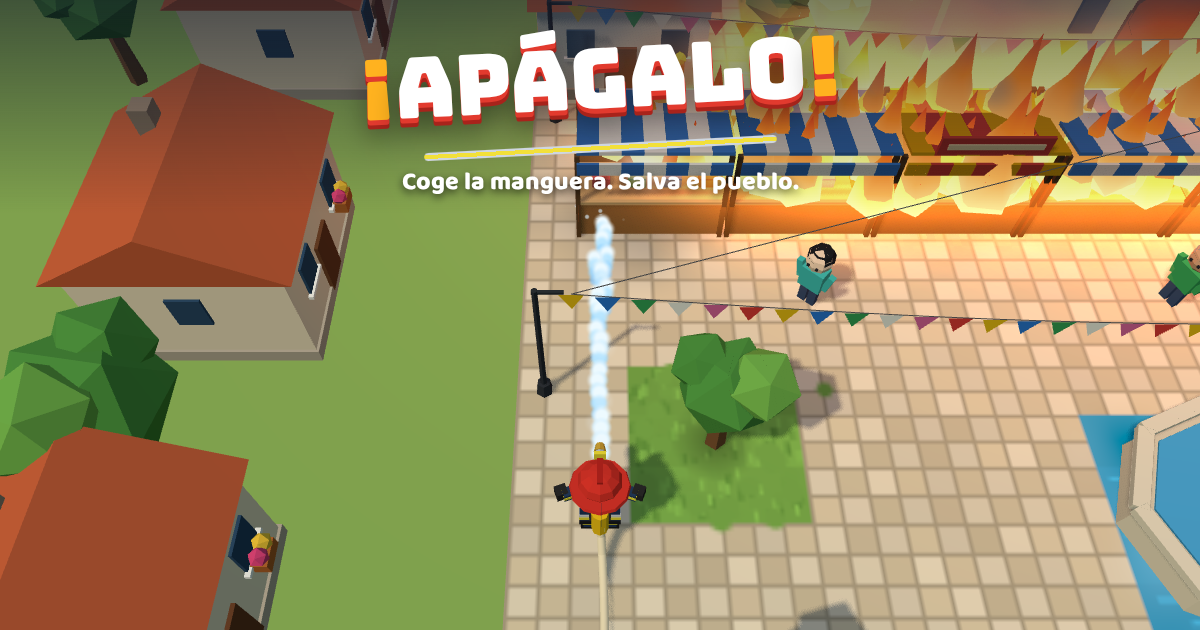
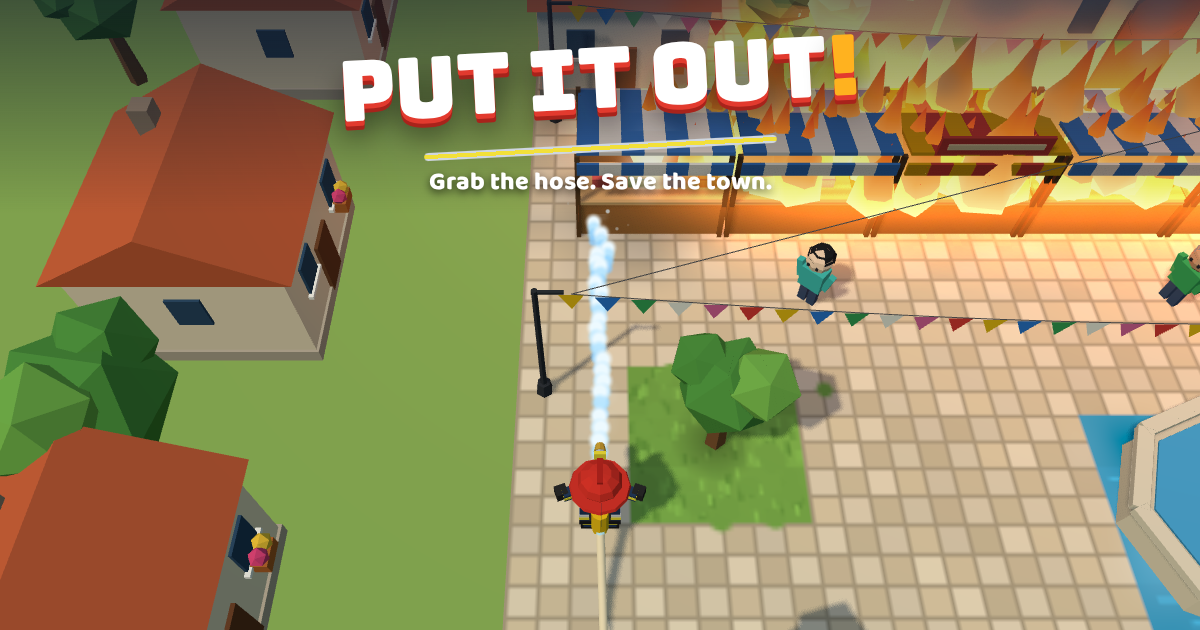
Imágenes en inglés: PUT IT OUT! en la tarjeta para compartir, portadas de CrazyGames y ficha de Play
tools/assets.py y tools/store_shots.py aceptan GAME_LANG y PORT. La tarjeta
de la web y las portadas de CrazyGames pasan a inglés; las capturas y el
gráfico destacado en inglés van en assets/play-en/ (las de español siguen
en assets/play/). El título de las portadas evita la zona de etiquetas.

Claude-Session: https://claude.ai/code/session_01QmgToeeGN4mTan4UFKf8XV

diff --git a/tools/assets.py b/tools/assets.py
@@ -1,14 +1,18 @@
 # Renders store/share assets from the real game: app icons, OG image, CrazyGames covers.
-# Usage: python3 tools/assets.py
+# Usage: python3 tools/assets.py [all|icons|og|covers]
+# The OG image and the CrazyGames covers are English ("PUT IT OUT!"): the web and the portal target tier-1 players.
+# GAME_LANG=es renders the Spanish title instead; PORT changes the local server port (default 8765).
 import asyncio, os
 from playwright.async_api import async_playwright
 
 ROOT = os.path.dirname(os.path.dirname(os.path.abspath(__file__)))
-URL = 'http://127.0.0.1:8765/web/index.html'  # served: file:// blocks the self-hosted fonts
+LANG = os.environ.get('GAME_LANG', 'en')
+LOCALE = 'es-ES' if LANG == 'es' else 'en-US'
+URL = f"http://127.0.0.1:{os.environ.get('PORT', '8765')}/web/index.html"  # served: file:// blocks the self-hosted fonts
 OUT = f'{ROOT}/assets/'
 ARGS = ['--use-gl=angle', '--use-angle=swiftshader', '--enable-unsafe-swiftshader']
 
-SAVE = "localStorage.setItem('apagalo.v1', JSON.stringify({v:1,stars:{plaza:3,granja:3,gasolinera:3,poligono:3,castanar:3,sanjuan:3},best:{},daily:{},streak:{count:0,last:''},settings:{sfx:false,music:false,vibration:false,gfx:'high',autoTier:'high',lang:'es',stats:false},tutorialDone:true,firstOpen:false,seenTips:[]}))"
+SAVE = "localStorage.setItem('apagalo.v1', JSON.stringify({v:1,stars:{plaza:3,granja:3,gasolinera:3,poligono:3,castanar:3,sanjuan:3},best:{},daily:{},streak:{count:0,last:''},settings:{sfx:false,music:false,vibration:false,gfx:'high',autoTier:'high',lang:'%s',stats:false},tutorialDone:true,firstOpen:false,seenTips:[]}))" % LANG
 
 ICON_SVG = '''<svg xmlns="http://www.w3.org/2000/svg" viewBox="0 0 512 512">
 <defs><linearGradient id="g" x1="0" y1="0" x2="0" y2="1"><stop offset="0" stop-color="#ef4a3a"/><stop offset="1" stop-color="#b8231b"/></linearGradient></defs>
@@ -22,9 +26,11 @@ ICON_SVG = '''<svg xmlns="http://www.w3.org/2000/svg" viewBox="0 0 512 512">
 HIDE_UI = "document.head.insertAdjacentHTML('beforeend','<style>#hud,#nozzles,#icons,#floaters,#toast,.tut,.stick,#screens,.banner{display:none!important}</style>')"
 
 def title_html(size, tag=False, top='5%', shift=0):
-    tagline = '<p style="margin:14px 0 0;font-family:Baloo 2,sans-serif;font-weight:800;font-size:%dpx;color:#fff;text-shadow:0 3px 8px rgba(0,0,0,.7)">Coge la manguera. Salva el pueblo.</p>' % int(size * 0.3) if tag else ''
+    line = 'Coge la manguera. Salva el pueblo.' if LANG == 'es' else 'Grab the hose. Save the town.'
+    tagline = '<p style="margin:14px 0 0;font-family:Baloo 2,sans-serif;font-weight:800;font-size:%dpx;color:#fff;text-shadow:0 3px 8px rgba(0,0,0,.7)">%s</p>' % (int(size * 0.3), line) if tag else ''
+    name = '<span style="color:#ffb21f">¡</span>APÁGALO<span style="color:#ffb21f">!</span>' if LANG == 'es' else 'PUT IT OUT<span style="color:#ffb21f">!</span>'
     return f'''<div id="poster" style="position:fixed;inset:0;z-index:60;pointer-events:none;display:flex;flex-direction:column;align-items:center;padding-top:{top};background:linear-gradient(180deg,rgba(13,21,40,.55) 0%,rgba(13,21,40,0) 34%)">
-<h1 style="font-family:Bungee,Impact,sans-serif;font-weight:400;font-size:{size}px;line-height:1;margin:0;color:#fff;letter-spacing:-.01em;transform:translateX({shift}px) rotate(-3deg);text-shadow:0 {size*0.06:.0f}px 0 #e23a2e,0 {size*0.11:.0f}px 0 #a8231b,0 {size*0.2:.0f}px {size*0.35:.0f}px rgba(0,0,0,.45)"><span style="color:#ffb21f">¡</span>APÁGALO<span style="color:#ffb21f">!</span></h1>
+<h1 style="font-family:Bungee,Impact,sans-serif;font-weight:400;font-size:{size}px;line-height:1;margin:0;color:#fff;letter-spacing:-.01em;transform:translateX({shift}px) rotate(-3deg);text-shadow:0 {size*0.06:.0f}px 0 #e23a2e,0 {size*0.11:.0f}px 0 #a8231b,0 {size*0.2:.0f}px {size*0.35:.0f}px rgba(0,0,0,.45)">{name}</h1>
 <div style="width:{size*4.2:.0f}px;height:{max(8,size*0.1):.0f}px;margin-top:{size*0.28:.0f}px;transform:translateX({shift}px) rotate(-3deg);background:linear-gradient(180deg,#cfd6df 0 25%,#f2e03a 25% 75%,#cfd6df 75% 100%);border-radius:4px"></div>
 {tagline}</div>'''
 
@@ -49,7 +55,7 @@ SCENE = '''(async (opts) => {
 
 async def shot(p, name, w, h, level, zoom, grow, bot, title_size=None, tag=False, top='5%', dz=0.0, shift=0):
     b = await p.chromium.launch(args=ARGS)
-    ctx = await b.new_context(viewport={'width': w, 'height': h}, device_scale_factor=1, has_touch=True, is_mobile=w < h, locale='es-ES')
+    ctx = await b.new_context(viewport={'width': w, 'height': h}, device_scale_factor=1, has_touch=True, is_mobile=w < h, locale=LOCALE)
     page = await ctx.new_page()
     await page.goto(URL); await page.wait_for_timeout(800)
     await page.evaluate(SAVE)
@@ -89,8 +95,11 @@ async def main():
             # CrazyGames puts labels over the top-left corner of the covers (about a third of the width by a
             # strip about 3:1 on the wide covers, taller on the square): the title stays out of it
             await shot(p, 'cg-cover-1920x1080.png', 1920, 1080, 0, 1.0, 7, 3.2, 150, top='3%', dz=-1.0, shift=220)
-            await shot(p, 'cg-cover-800x1200.png', 800, 1200, 0, 0.72, 7, 3.2, 104, top='10.5%', dz=-1.6)
-            await shot(p, 'cg-cover-800x800.png', 800, 800, 0, 0.8, 7, 3.2, 80, top='4%', dz=-1.2, shift=130)
+            await shot(p, 'cg-cover-800x1200.png', 800, 1200, 0, 0.72, 7, 3.2, 104, top='12%', dz=-1.6)
+            if LANG == 'es':
+                await shot(p, 'cg-cover-800x800.png', 800, 800, 0, 0.8, 7, 3.2, 80, top='4%', dz=-1.2, shift=130)
+            else:
+                await shot(p, 'cg-cover-800x800.png', 800, 800, 0, 0.8, 7, 3.2, 84, top='31%', dz=-1.2)
 
 if __name__ == '__main__':
     asyncio.run(main())

diff --git a/tools/store_shots.py b/tools/store_shots.py
@@ -1,17 +1,19 @@
 # Google Play assets from the real game: phone screenshots (1080x1920, with HUD) and the feature graphic (1024x500).
-# Usage: python3 tools/store_shots.py   (serve dist/ on :8765 first)
+# Usage: python3 tools/store_shots.py [all|shots|feature]   (serve dist/ on :8765 first, or set PORT)
+# GAME_LANG=en renders the English listing into assets/play-en/ (default: Spanish into assets/play/).
 import asyncio, os, sys
 sys.path.insert(0, os.path.dirname(__file__))
 from playwright.async_api import async_playwright
+os.environ.setdefault('GAME_LANG', 'es')  # before importing assets: it reads the language at import time
 import assets as A  # reuses SAVE, SCENE and the title overlay from the cover renderer
 
-URL = 'http://127.0.0.1:8765/web/index.html'
-OUT = os.path.join(os.path.dirname(os.path.dirname(os.path.abspath(__file__))), 'assets', 'play') + os.sep
+URL = A.URL
+OUT = os.path.join(A.ROOT, 'assets', 'play' if A.LANG == 'es' else 'play-en') + os.sep
 HIDE = "document.head.insertAdjacentHTML('beforeend','<style>#toast,.tut,.stick,.banner,.fl.bad{display:none!important}</style>')"
 
 async def game_shot(p, name, level, pre, zoom=1.0, dz=0.0, bot_after=0.0):
     b = await p.chromium.launch(args=A.ARGS)
-    ctx = await b.new_context(viewport={'width': 540, 'height': 960}, device_scale_factor=2, has_touch=True, is_mobile=True, locale='es-ES')
+    ctx = await b.new_context(viewport={'width': 540, 'height': 960}, device_scale_factor=2, has_touch=True, is_mobile=True, locale=A.LOCALE)
     page = await ctx.new_page()
     await page.goto(URL); await page.wait_for_timeout(600)
     await page.evaluate(A.SAVE); await page.goto(URL); await page.wait_for_timeout(1500)
@@ -27,7 +29,7 @@ async def game_shot(p, name, level, pre, zoom=1.0, dz=0.0, bot_after=0.0):
 
 async def menu_shot(p, name, clicks):
     b = await p.chromium.launch(args=A.ARGS)
-    ctx = await b.new_context(viewport={'width': 540, 'height': 960}, device_scale_factor=2, has_touch=True, is_mobile=True, locale='es-ES')
+    ctx = await b.new_context(viewport={'width': 540, 'height': 960}, device_scale_factor=2, has_touch=True, is_mobile=True, locale=A.LOCALE)
     page = await ctx.new_page()
     await page.goto(URL); await page.wait_for_timeout(600)
     await page.evaluate(A.SAVE.replace('plaza:3,granja:3,gasolinera:3,poligono:3,castanar:3,sanjuan:3', 'plaza:3,granja:3,gasolinera:2,poligono:3,castanar:1'))
